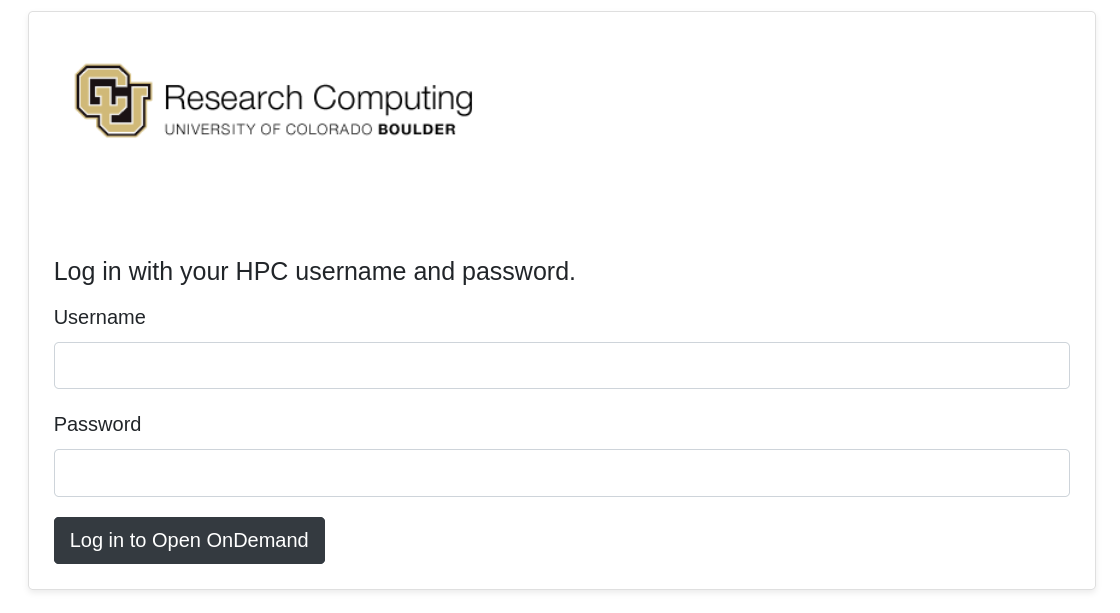
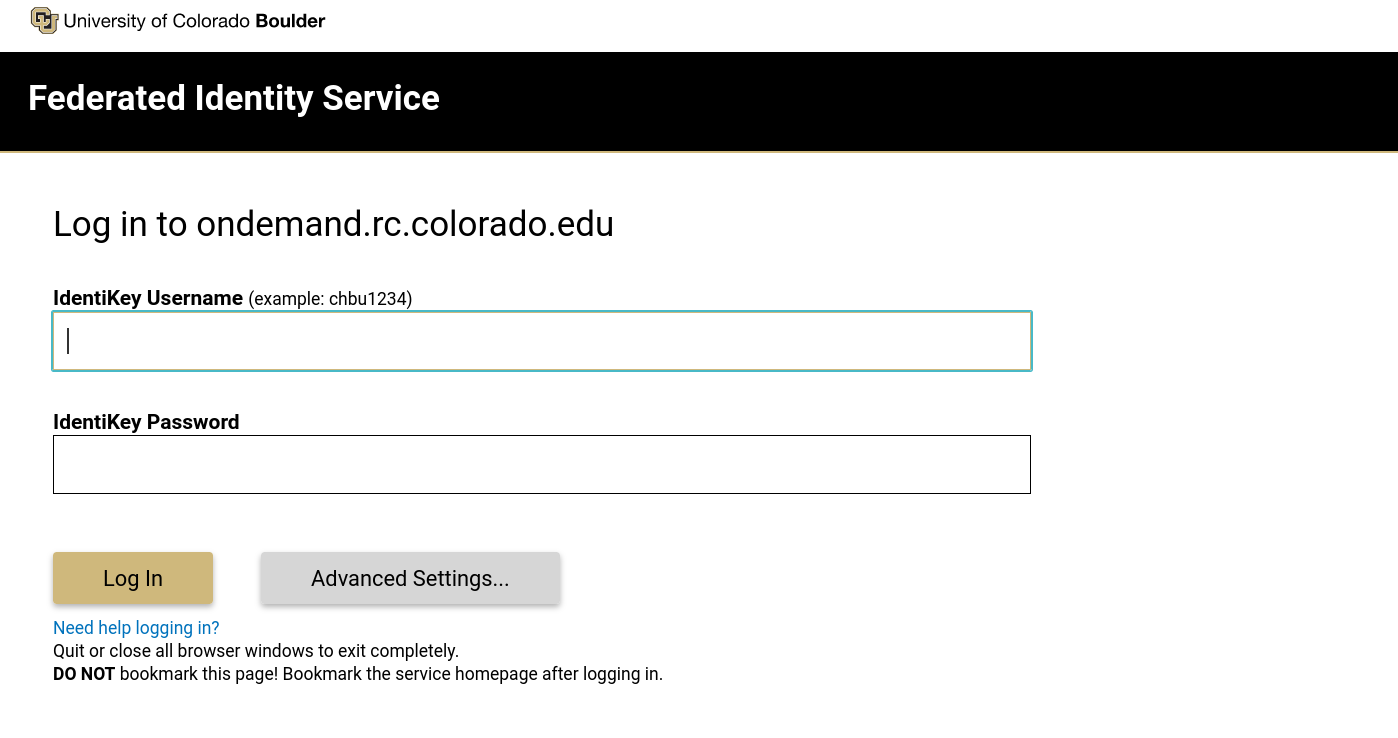
change title and into, add new login page image and logout notes

diff --git a/docs/gateways/OnDemand.md b/docs/gateways/OnDemand.md
@@ -1,14 +1,18 @@
-## CURC Open OnDemand _(Browser based portal for CURC HPC resources)_
+> **_Early Release:_ Open OnDemand is in early/beta release, currenly only available to CU users, if you encounter any errors, please report them to [rc-help@colorado.edu](rc-help@colorado.edu).**
 
-CURC Open OnDemand is a browser based, integrated, single access portal for all of your high performance computing (HPC) resources. CURC Open OnDemand provides a graphical interface to view, edit, download, and upload files, manage and create job templates for CURC's Summit and Blanca clusters, and access CURC interactive applications (visualization nodes, Matlab, and JupyterNotebooks), all via a web browser and with minimal knowledge of Linux and scheduler commands.
+## Open OnDemand _(Browser Based HPC Portal)_
+
+CURC Open OnDemand is a browser based, integrated, single access point for all of your high performance computing (HPC) resources at CU Research Computing. CURC Open OnDemand provides a graphical interface to view, edit, download, and upload files, manage and create job templates for CURC's clusters, and access CURC interactive applications (Virtual Desktops, Matlab, and JupyterNotebooks), all via a web browser and with minimal knowledge of Linux and scheduler commands required.
 
 ### Getting started with CURC Open OnDemand
-
-> **_NOTE:_** _This is a beta release of Open OnDemand currenly only available to CU users_
  
 To connect to CURC Open OnDemand, visit [https://ondemand.rc.colorado.edu](https://ondemand.rc.colorado.edu/). The first page of CU Open OnDemand will bring you to a login prompt. Use your CU Research Computing credentials and Duo 2-factor authentication to login. If you need a CU Research Computing account please visit [our account request page](https://curc.readthedocs.io/en/latest/access/logging-in.html) to get started.
 
 ![](OnDemand/login_page.png)
+
+> _Note:_ You must completely quit your browser in order for "logout" to occur. If after reopening your browser you are still logged in, please clear your cookies. If you are on a Chromebook or Chromebox, you will need to reboot your device in order to "quit the browser" and thus "logout".  
+
+> _**Tip: Using a "private browsing mode"** window while using OnDemand is a great way to handle "auto-logout", as closing your browser window will remove all associated cookies and session information._ 
 
 ### Features
 
